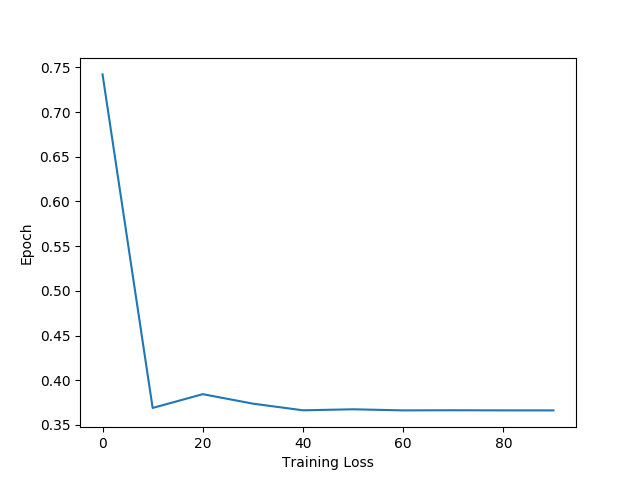
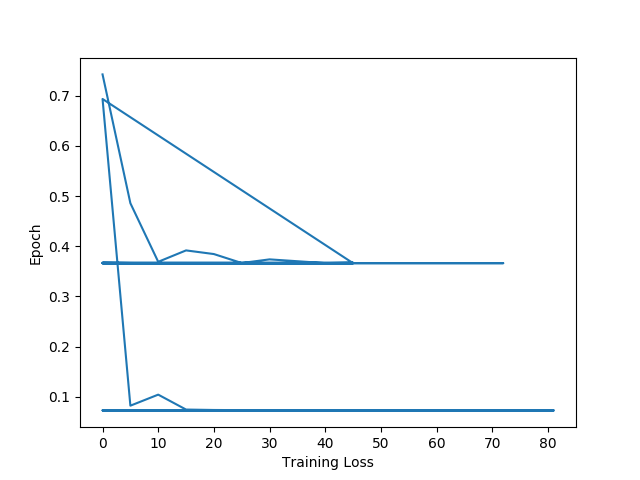
dropFix

diff --git a/templates/results.html b/templates/results.html
@@ -136,57 +136,44 @@
             
             <div class="row">
                 <div class="col" style="color: aliceblue;">
-                    <select class="form-control" id="exampleFormControlSelect1" name="tb1">
-                        <option>1</option>
-                        <option>2</option>
-                        <option>3</option>
-                        <option>4</option>
-                        <option>5</option>
+                    <label for="epoch">Epoch Value</label>
+                    <select class="form-control" name="epoch">
+                        <option value="50">50</option>
+                        <option value="60">60</option>
+                        <option value="70">70</option>
+                        <option value="80">80</option>
+                        <option value="90">90</option>
                       </select>
                 </div>
                 <div class="col" style="color: aliceblue;">
-                    <select class="form-control" id="exampleFormControlSelect1" name="tb2">
-                        <option>1</option>
-                        <option>2</option>
-                        <option>3</option>
-                        <option>4</option>
-                        <option>5</option>
+                    <label for="lr">Learning Rate</label>
+                    <select class="form-control" name="lr">
+                        
+                        <option value="0.1">0.1</option>
+                        <option value="0.08">0.08</option>
+                        <option value="0.06">0.06</option>
+                        <option value="0.04">0.04</option>
+                        <option value="0.02">0.02</option>
                       </select>
                 </div>
                 <div class="col" style="color: aliceblue;">
-                    <select class="form-control" id="exampleFormControlSelect1" name="tb3">
-                        <option>1</option>
-                        <option>2</option>
-                        <option>3</option>
-                        <option>4</option>
-                        <option>5</option>
+                    <label for="moment">Momentum</label>
+                    <select class="form-control" name="moment">
+                        <option value="0.7">0.7</option>
+                        <option value="0.75">0.75</option>
+                        <option value="0.8">0.8</option>
+                        <option value="0.85">0.85</option>
+                        <option value="0.9">0.9</option>
                       </select>
                 </div>
                 <div class="col" style="color: aliceblue;">
-                    <select class="form-control" id="exampleFormControlSelect1" name="tb4">
-                        <option>1</option>
-                        <option>2</option>
-                        <option>3</option>
-                        <option>4</option>
-                        <option>5</option>
-                      </select>
-                </div>
-                <div class="col" style="color: aliceblue;">
-                    <select class="form-control" id="exampleFormControlSelect1" name="tb5">
-                        <option>1</option>
-                        <option>2</option>
-                        <option>3</option>
-                        <option>4</option>
-                        <option>5</option>
-                      </select>
-                </div>
-                <div class="col" style="color: aliceblue;">
-                    <select class="form-control" id="exampleFormControlSelect1" name="tb6">
-                        <option>1</option>
-                        <option>2</option>
-                        <option>3</option>
-                        <option>4</option>
-                        <option>5</option>
+                    <label for="batch">Batch Size</label>
+                    <select class="form-control" name="batch">
+                        <option value="15">15</option>
+                        <option value="17.5">17.5</option>
+                        <option value="20">20</option>
+                        <option value="22.5">22.5</option>
+                        <option value="25">25</option>
                       </select>
                 </div>
             </div>
@@ -210,12 +197,12 @@
     
      <div class="row">
         <div class="col"><img src="{{ url_for('static', filename='loss2.png') }}" alt="" srcset="" style="margin-top: 2rem; width: 500px"></div>
-   <!--     <div class="col"><img src="{{ url_for('static', filename='confused.png') }}" alt="" srcset="" style="margin-top: 2rem;"></div>-->
+       <div class="col"><img src="{{ url_for('static', filename='confused.png') }}" alt="" srcset="" style="margin-top: 2rem;"></div>
     </div> 
     <br>
     
 </div>
-
+<canvas class="background"></canvas>
 
     <script src="https://cdnjs.cloudflare.com/ajax/libs/particlesjs/2.2.2/particles.min.js"></script>
   
@@ -236,7 +223,7 @@
                                 ,
                                 options: {
                                     maxParticles:
-                                        200
+                                        120
                                     ,
                                     color:
                                         '#F3A840'

diff --git a/templates/takeTest.html b/templates/takeTest.html
@@ -1,27 +1,3 @@
-<!DOCTYPE html>
-<html lang="en">
-<head>
-    <meta charset="UTF-8">
-    <meta name="viewport" content="width=device-width, initial-scale=1.0">
-    <title>Document</title>
-</head>
-<body>
-    
-        
-   
-
-        
-
-{% if pred is defined%}                
-{% for key,value in pred.items() %}
-<h1 style="color: black;">{{value}}</h1>
-{% endfor %}
-{% endif %}
-
-        
-        
-</body>
-</html>
 
 <!DOCTYPE html>
 <html lang="en">
@@ -128,7 +104,7 @@
     
     </div>
 
-
+    <canvas class="background"></canvas>
     <script src="https://cdnjs.cloudflare.com/ajax/libs/particlesjs/2.2.2/particles.min.js"></script>
   
     <script>
@@ -148,7 +124,7 @@
                                 ,
                                 options: {
                                     maxParticles:
-                                        200
+                                        80
                                     ,
                                     color:
                                         '#F3A840'

diff --git a/main.py b/main.py
@@ -47,7 +47,7 @@ error = nn.CrossEntropyLoss()
 opt = optim.Adam(model.parameters())
 a=[]
 b=[]
-def train(model, train_loader, n_epochs=100):
+def train(model, train_loader, n_epochs,lr,momentum,batch_size):
 	model = model.to(device)
 	model.train()
 	for epoch in range(n_epochs):
@@ -158,6 +158,7 @@ def frame():
 def edit():
 	a=[]
 	b=[]
+	req = request.form
 	dest_path='static/edit'
 	x=request.form
 	for val in x:	
@@ -172,7 +173,8 @@ def edit():
     num_workers=8, batch_size=200, shuffle=True
 	)
 	print("edit function")
-	train(model,train_loader)
+	print(req)
+	train(model,train_loader,int(req['epoch']),float(req['lr']),float(req['moment']),int(req['batch']))
 	#fig,ax= plt.subplot()
 	#ax.plot(a,b)
 	#ax.set(xlabel="Loss",ylabel="Epoch")
